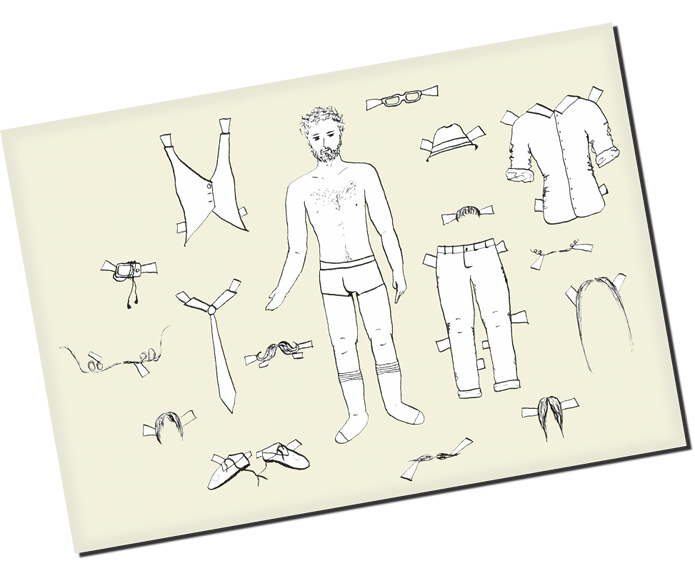
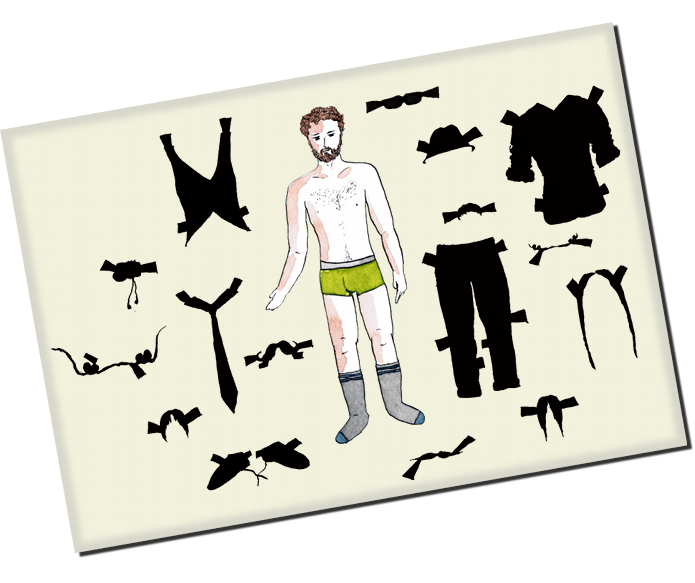
Update (colorized) key art for William S. Bergman.

diff --git a/web/william_s_bergman/index.html b/web/william_s_bergman/index.html
@@ -3,6 +3,45 @@
 ---
 {% assign critic_name = 'William S. Bergman' %}{% capture flavor %}
 <b>William S. Bergman</b> is the hippest reviewer out there.
+{% endcapture %}{% capture art %}
+<img src="1-solved.png" />
+<img src="2-solved.png" />
+<img src="3-solved.png" />
+<img src="4-solved.png" />
+<img src="5-solved.png" />
+<img src="6-solved.png" />
+<img src="7-solved.png" />
+<img src="8-solved.png" />
+<img src="bright_eyes/-solved.png" />
+<img src="cheval/-solved.png" />
+<img src="daisyjo/-solved.png" />
+<img src="gingerbread/-solved.png" />
+<img src="honolu_loo/-solved.png" />
+<img src="princess_serena/-solved.png" />
+<img src="star_catcher/-solved.png" />
+<img src="sweetberry/-solved.png" />
+<img src="../1px.png" usemap="#map" />
+<map name="map">
+
+<area shape="rect" coords="420,235,530,400" alt="Baby Half-Note" title="Baby Half-Note" href="../into_the_woodstock/baby_half_note/" />
+<area shape="rect" coords="498,83,622,227" alt="Braeburn" title="Braeburn" href="../into_the_woodstock/braeburn/" />
+<area shape="rect" coords="173,275,244,415" alt="Bubbles" title="Bubbles" href="../into_the_woodstock/bubbles/" />
+<area shape="rect" coords="405,122,485,172" alt="Daffidazey" title="Daffidazey" href="../into_the_woodstock/daffidazey/" />
+<area shape="rect" coords="98,257,159,313" alt="Desert Rose" title="Desert Rose" href="../okla_holmes_a/desert_rose/" />
+<area shape="rect" coords="364,78,450,115" alt="Magic Star" title="Magic Star" href="../a_circus_line/magic_star/" />
+<area shape="rect" coords="204,435,311,494" alt="Sundance" title="Sundance" href="../into_the_woodstock/sundance/" />
+<area shape="rect" coords="157,115,253,248" alt="Sunny Daze" title="Sunny Daze" href="../into_the_woodstock/sunny_daze/" />
+
+<area shape="rect" coords="242,337,315,374" alt="Bright Eyes" title="Bright Eyes" href="bright_eyes/" />
+<area shape="rect" coords="564,262,640,371" alt="Cheval" title="Cheval" href="cheval/" />
+<area shape="rect" coords="48,323,168,380" alt="Daisyjo" title="Daisyjo" href="daisyjo/" />
+<area shape="rect" coords="427,200,498,225" alt="Gingerbread" title="Gingerbread" href="gingerbread/" />
+<area shape="rect" coords="526,230,604,267" alt="Honolu-Loo" title="Honolu-Loo" href="honolu_loo/" />
+<area shape="rect" coords="144,404,204,454" alt="Princess Serena" title="Princess Serena" href="princess_serena/" />
+<area shape="rect" coords="400,433,481,481" alt="Star Catcher" title="Star Catcher" href="star_catcher/" />
+<area shape="rect" coords="518,393,581,443" alt="Sweetberry" title="Sweetberry" href="sweetberry/" />
+
+</map>
 {% endcapture %}{% capture materials %}
     <table class="materials">
       <tr>
